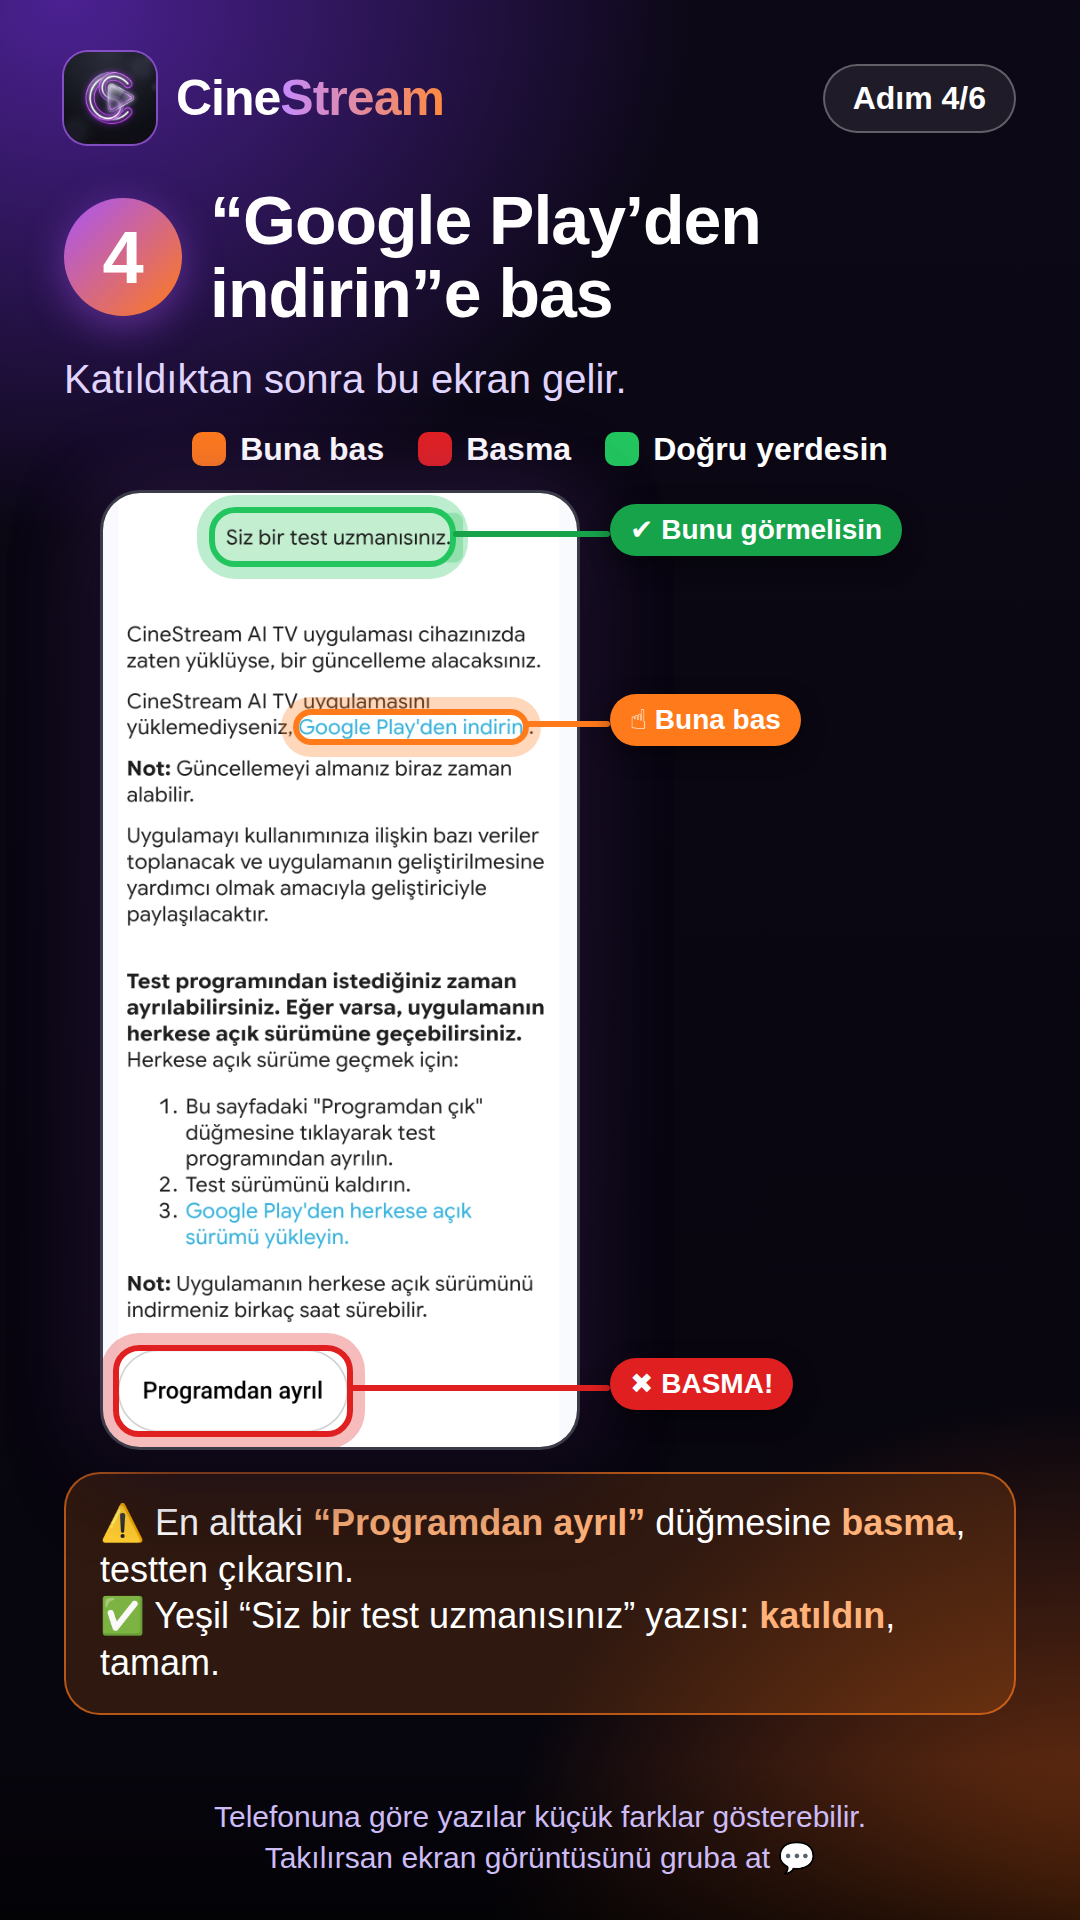
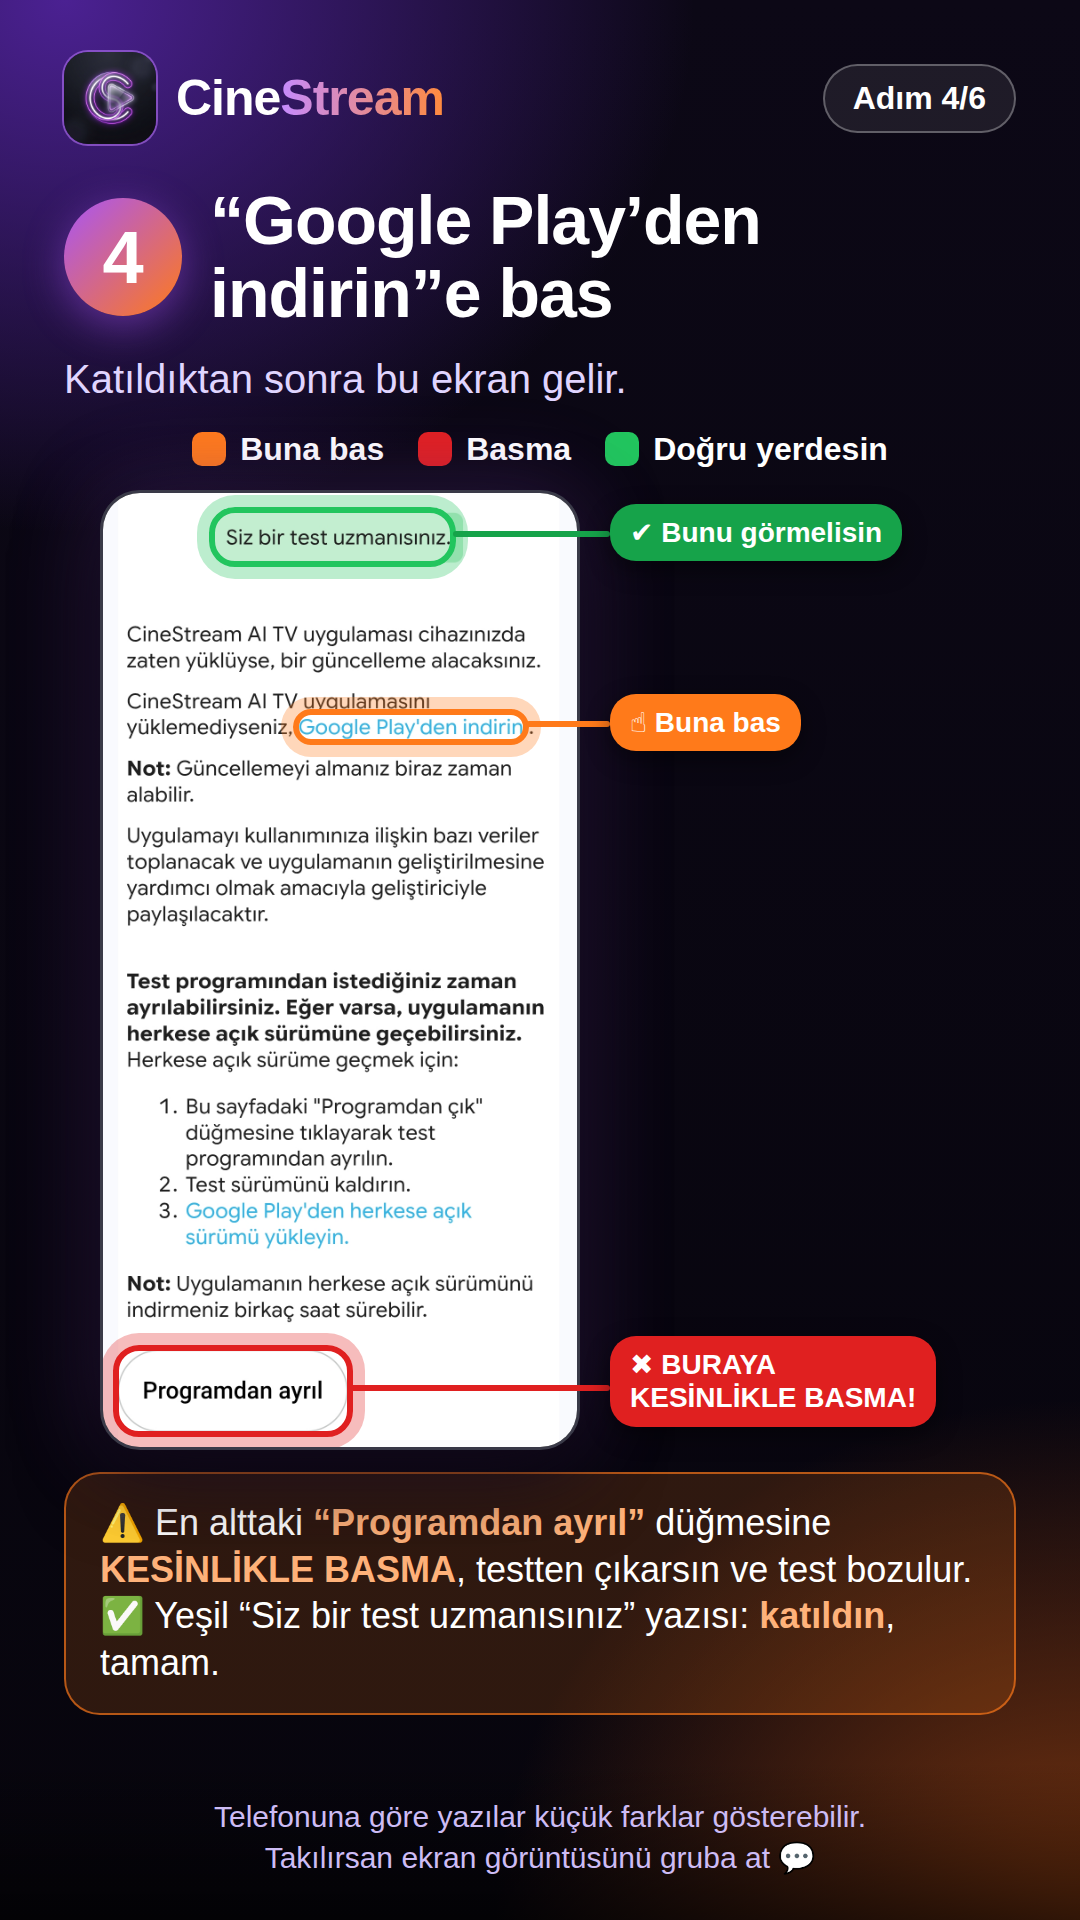
Test rehberi 4. adım: "Programdan ayrıl" için "BURAYA KESİNLİKLE BASMA!" uyarısı
Claude-Session: https://claude.ai/code/session_01ER33523VoiWUX5yh7Ck2TW

diff --git a/play-store/test-rehberi/uret.py b/play-store/test-rehberi/uret.py
@@ -126,7 +126,8 @@ def shot(name, y0, y1, width, marks, gutter=0):
             x_from = left + w
             x_to = width + 30
             outside.append(f'<div style="position:absolute;left:{x_from:.0f}px;top:{cy - 3:.0f}px;width:{x_to - x_from:.0f}px;height:6px;background:{c};border-radius:3px"></div>')
-            outside.append(f'<div class="lab {kind}" style="left:{x_to:.0f}px;top:{cy - 30:.0f}px">{label}</div>')
+            off = 52 if "<br>" in label else 30
+            outside.append(f'<div class="lab {kind}" style="left:{x_to:.0f}px;top:{cy - off:.0f}px;line-height:1.2">{label}</div>')
         else:
             cx = left + w / 2
             y_from = top + hh
@@ -258,9 +259,9 @@ def s4():
     img = shot("2-uzman.jpg", 100, 1900, 480, [
         ("ok", 208, 137, 652, 229, "✔ Bunu görmelisin", "right"),
         ("tap", 366, 515, 788, 562, "☝ Buna bas", "right"),
-        ("no", 28, 1707, 458, 1860, "✖ BASMA!", "right"),
+        ("no", 28, 1707, 458, 1860, "✖ BURAYA<br>KESİNLİKLE BASMA!", "right"),
     ], gutter=400)
-    note = ('<div class="warn" style="margin-top:22px">⚠ En alttaki <b>“Programdan ayrıl”</b> düğmesine <b>basma</b>, testten çıkarsın.<br>'
+    note = ('<div class="warn" style="margin-top:22px">⚠ En alttaki <b>“Programdan ayrıl”</b> düğmesine <b>KESİNLİKLE BASMA</b>, testten çıkarsın ve test bozulur.<br>'
             '✅ Yeşil “Siz bir test uzmanısınız” yazısı: <b>katıldın</b>, tamam.</div>')
     return page(4, "“Google Play’den<br>indirin”e bas", "Katıldıktan sonra bu ekran gelir.",
                 f'{legend()}<div class="center" style="margin-top:22px">{img}</div>{note}')
